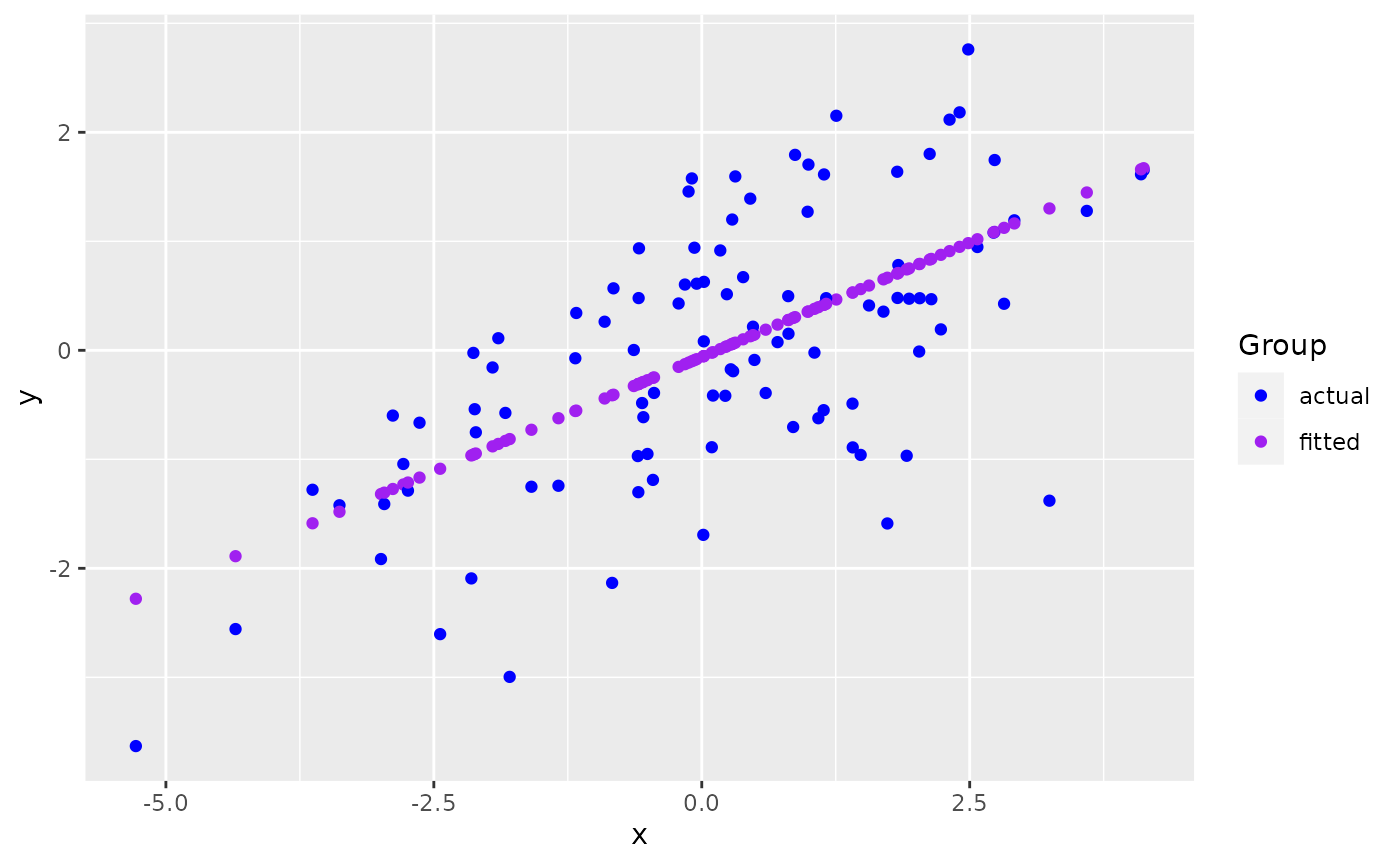
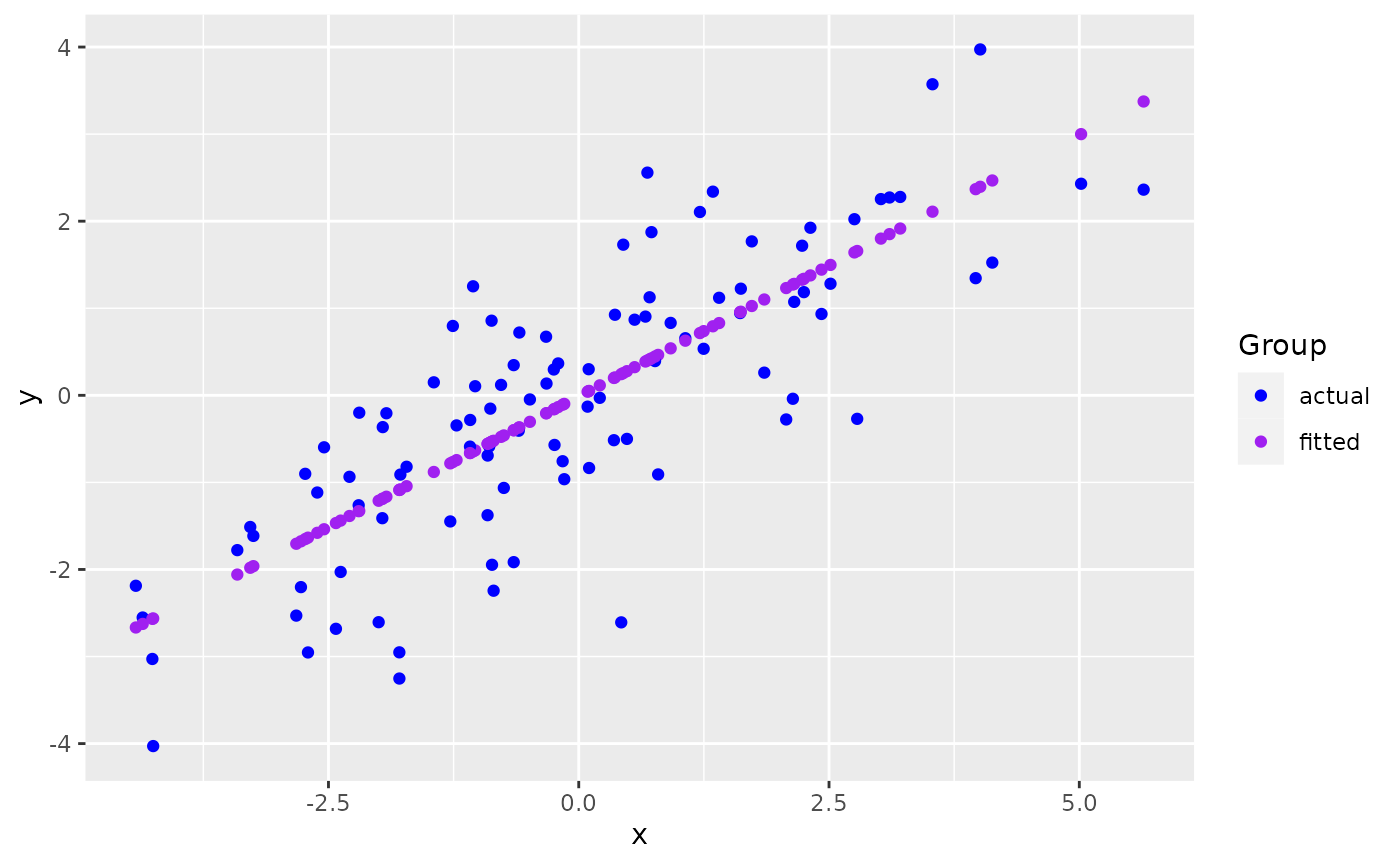
Built site for ggmatplot: 0.1.1@6c16f69

diff --git a/articles/ggmatplot.html b/articles/ggmatplot.html
@@ -103,7 +103,7 @@
 <span class="va">x</span> <span class="op">&lt;-</span> <span class="fu"><a href="https://rdrr.io/r/base/c.html" class="external-link">c</a></span><span class="op">(</span><span class="fu"><a href="https://rdrr.io/r/stats/Normal.html" class="external-link">rnorm</a></span><span class="op">(</span><span class="fl">100</span>, sd <span class="op">=</span> <span class="fl">2</span><span class="op">)</span><span class="op">)</span>
 
 <span class="fu"><a href="https://rdrr.io/r/utils/head.html" class="external-link">head</a></span><span class="op">(</span><span class="va">x</span><span class="op">)</span>
-<span class="co">#&gt; [1] -0.5965379 -0.9063260 -1.1797270  1.1407846 -2.1499726 -0.4454464</span>
+<span class="co">#&gt; [1] -1.2830608  2.1521584 -0.7484013 -1.0349368 -3.2812548 -0.8707283</span>
 
 <span class="co"># matrix z</span>
 <span class="va">y</span> <span class="op">&lt;-</span> <span class="va">x</span> <span class="op">*</span> <span class="fl">0.5</span> <span class="op">+</span> <span class="fu"><a href="https://rdrr.io/r/stats/Normal.html" class="external-link">rnorm</a></span><span class="op">(</span><span class="fl">100</span>, sd <span class="op">=</span> <span class="fl">1</span><span class="op">)</span>
@@ -112,13 +112,13 @@
            fitted <span class="op">=</span> <span class="va">fit.y</span><span class="op">)</span>
 
 <span class="fu"><a href="https://rdrr.io/r/utils/head.html" class="external-link">head</a></span><span class="op">(</span><span class="va">z</span><span class="op">)</span>
-<span class="co">#&gt;        actual     fitted</span>
-<span class="co">#&gt; 1 -0.97028885 -0.3119306</span>
-<span class="co">#&gt; 2  0.26230329 -0.4420614</span>
-<span class="co">#&gt; 3 -0.07304097 -0.5569073</span>
-<span class="co">#&gt; 4  1.61339195  0.4178557</span>
-<span class="co">#&gt; 5 -2.09269563 -0.9644723</span>
-<span class="co">#&gt; 6 -0.39115525 -0.2484625</span></code></pre></div>
+<span class="co">#&gt;       actual     fitted</span>
+<span class="co">#&gt; 1 -1.4484951 -0.7814963</span>
+<span class="co">#&gt; 2  1.0732333  1.2800287</span>
+<span class="co">#&gt; 3 -1.0635919 -0.4606394</span>
+<span class="co">#&gt; 4  0.1044440 -0.6325935</span>
+<span class="co">#&gt; 5 -1.5121295 -1.9806416</span>
+<span class="co">#&gt; 6  0.8571627 -0.5340496</span></code></pre></div>
 <p><code>ggmatplot</code> plots vector <code>x</code> against each column of matrix <code>z</code> using the default <code>plot_type = "point"</code>. This will be represented on the resulting plot as two groups, identified using different shapes and colors.</p>
 <div class="sourceCode" id="cb2"><pre class="downlit sourceCode r">
 <code class="sourceCode R"><span class="kw"><a href="https://rdrr.io/r/base/library.html" class="external-link">library</a></span><span class="op">(</span><span class="va"><a href="https://github.com/xuan-liang/ggmatplot" class="external-link">ggmatplot</a></span><span class="op">)</span>

diff --git a/news/index.html b/news/index.html
@@ -65,7 +65,7 @@
 </div>
     <div class="section level2">
 <h2 class="page-header" data-toc-text="0.1.0" id="ggmatplot-010">ggmatplot 0.1.0<small>2021-12-08</small><a class="anchor" aria-label="anchor" href="#ggmatplot-010"></a></h2>
-<ul><li>This is the latest version on CRAN.</li>
+<ul><li>This old version has been archived on CRAN.</li>
 </ul></div>
   </div>
 
